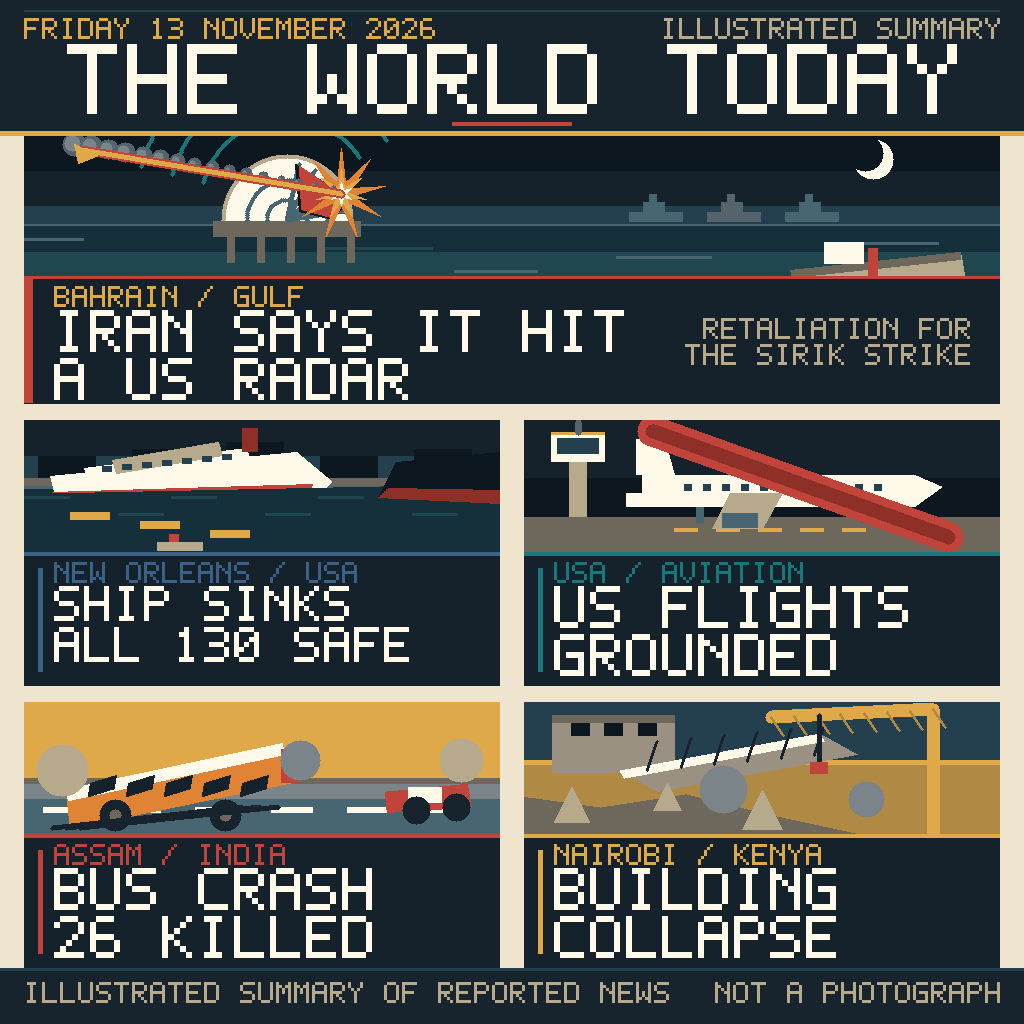
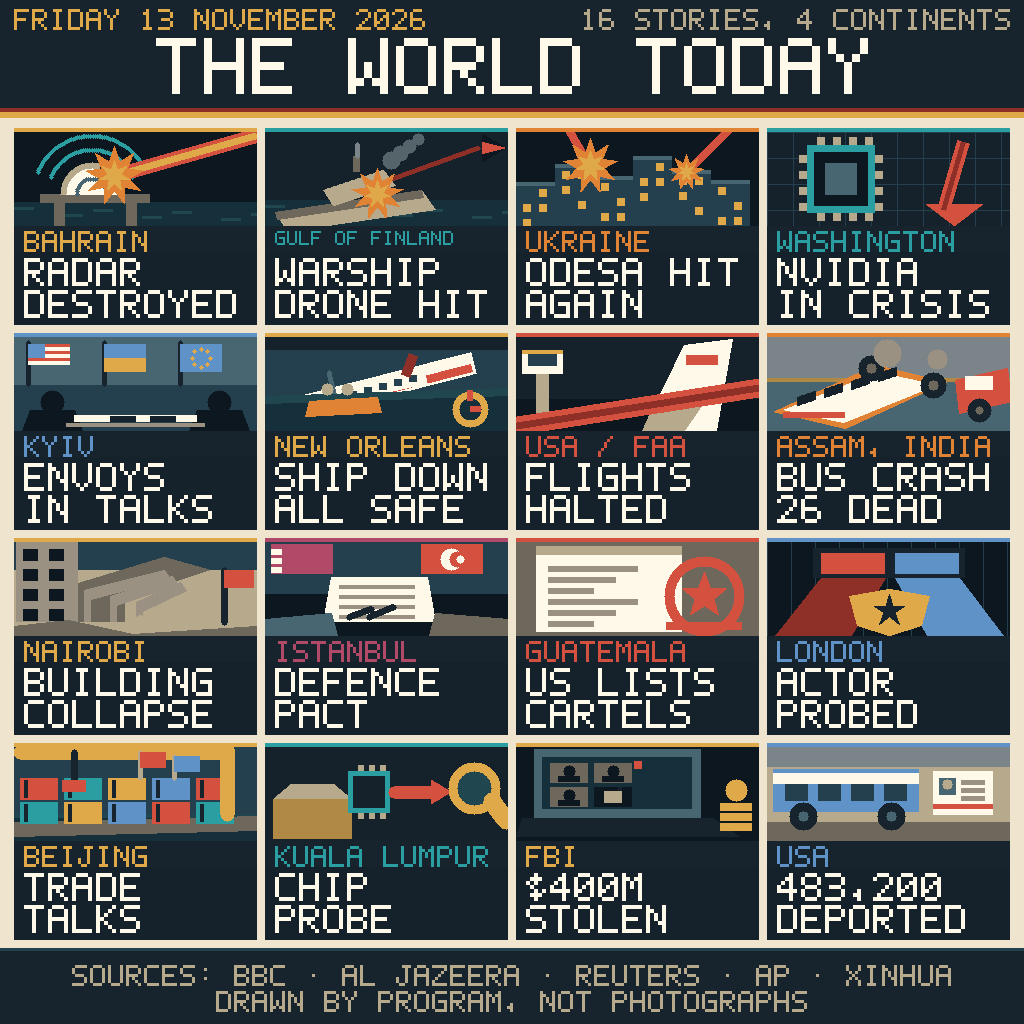
Add --check mode and document the page honestly
--check builds the page in memory and then audits it, writing nothing. It
fails if any drawn string is wider than the box it was fitted to, starts left
of that box, leaves the canvas, contains a character with no glyph, or lands
in the art box instead of its own caption band. It re-derives the grid and
fails if panel widths and gutters do not span exactly 1024 px, if the heights
and gutters do not reach the grid foot, if the panel strips do not add up to
the panel height, if the art / kicker / headline bands overlap, if any two
panels overlap, or if the PNG exceeds the 1 MiB cap. It also re-checks that
every headline line fits the shared typographic style.

Verified by breaking it on purpose: widening the gutters to 9 is caught, and
shrinking HEAD_H to 30 is caught with a per-panel message for all 16 panels.

README now says what the image actually shows - a table mapping all 16 panels
to the day's reports, with the fact behind each one - how to run it, how the
measuring engine works, the determinism guarantee with the matching sha256 of
two runs, and that it is an illustration drawn by code from reports, not a
photograph.

Verified on this build: exactly 1024x1024, one IHDR/IDAT/IEND set with correct
CRCs, 27928 bytes, byte-identical across runs, 0.3 s per run.

diff --git a/main.py b/main.py
@@ -6,6 +6,7 @@ clock: two runs write byte-identical files.  Writes one 1024x1024 PNG to
 $MAKEFUN_OUTPUT_DIR/entry.png (default /output/entry.png).
 
     python3 main.py            write the PNG
+    python3 main.py --check    measure every string and the grid, write nothing
 """
 import math
 import os
@@ -744,8 +745,86 @@ def encode():
             + chunk(b'IEND', b''))
 
 
+def check():
+    """Assert no drawn string overflows its box and the grid geometry adds up."""
+    errs = []
+    if len(STORIES) != 16:
+        errs.append('expected 16 stories, have %d' % len(STORIES))
+    if 2 * MARGIN + 4 * PANEL_W + 3 * GUTTER != W:
+        errs.append('panel widths and gutters do not span %d px' % W)
+    if GRID_TOP + 4 * PANEL_H + 3 * GUTTER != GRID_BOT:
+        errs.append('panel heights and gutters do not reach the grid foot')
+    if GRID_BOT + 6 > H - FOOT_H:
+        errs.append('grid does not stop above the footer')
+    for t in HEAD_LINES:
+        if tw(t, HEAD_K, HEAD_TRACK) > PANEL_W - 2 * PAD:
+            errs.append('headline %r does not fit at the shared style' % t)
+    if ART_H < 80:
+        errs.append('art box is only %d px tall' % ART_H)
+    if RULE_H + ART_H + GAP1 + KICK_H + GAP2 + HEAD_H + GAP3 != PANEL_H:
+        errs.append('panel strips do not add up to PANEL_H')
+    if KICK_Y < ART_Y + ART_H or HEAD_Y < KICK_Y + KICK_H:
+        errs.append('caption strips overlap the art box')
+    for s, k, w, x, y, bx, bw in TEXT_BOXES:
+        if w > bw:
+            errs.append('%r drawn %d px wide in a %d px box' % (s, w, bw))
+        if x < bx or x + w > bx + bw:
+            errs.append('%r spans %d..%d, box is %d..%d'
+                        % (s, x, x + w, bx, bx + bw))
+        if x < 0 or y < 0 or x + w > W or y + 7 * k > H:
+            errs.append('%r falls outside the canvas' % s)
+        if not s.strip():
+            errs.append('empty string drawn')
+        missing = [c for c in s.upper() if c not in GLYPHS]
+        if missing:
+            errs.append('%r has no glyph for %r' % (s, missing))
+
+    # every caption's ink must sit inside its own band, clear of the art
+    for i in range(16):
+        sx, sy = panel_xy(i)
+        art_b, kick_t = sy + ART_Y + ART_H, sy + KICK_Y
+        kick_b, head_t = kick_t + KICK_H, sy + HEAD_Y - GAP2
+        head_b = sy + HEAD_Y + HEAD_H
+        if not (art_b <= kick_t and kick_b <= head_t):
+            errs.append('panel %d: art, kicker and headline bands overlap' % i)
+        if head_b > sy + PANEL_H:
+            errs.append('panel %d: headline band runs off the panel' % i)
+        for s, k, w, x, y, bx, bw in TEXT_BOXES:
+            if not (sx <= x < sx + PANEL_W and sy <= y < sy + PANEL_H):
+                continue
+            bottom = y + 7 * k
+            if y < kick_t:
+                errs.append('panel %d: %r starts in the art box' % (i, s))
+            if bottom > head_b:
+                errs.append('panel %d: %r runs past the headline band' % (i, s))
+    # panel boxes must not touch each other
+    for i in range(16):
+        ax, ay = panel_xy(i)
+        for j in range(i + 1, 16):
+            bx2, by2 = panel_xy(j)
+            if (ax < bx2 + PANEL_W and bx2 < ax + PANEL_W
+                    and ay < by2 + PANEL_H and by2 < ay + PANEL_H):
+                errs.append('panels %d and %d overlap' % (i, j))
+    png = encode()
+    if len(png) > 1048576:
+        errs.append('png is %d bytes, cap is 1048576' % len(png))
+    print('strings drawn and measured: %d' % len(TEXT_BOXES))
+    print('panel %dx%d, art %dx%d, grid %d,%d..%d,%d'
+          % (PANEL_W, PANEL_H, PANEL_W, ART_H, MARGIN, GRID_TOP,
+             MARGIN + 4 * PANEL_W + 3 * GUTTER, GRID_BOT))
+    print('png %d bytes' % len(png))
+    if errs:
+        for e in errs:
+            print('FAIL:', e)
+        raise AssertionError('%d layout problems' % len(errs))
+    print('OK: no string overflows its box, grid geometry adds up')
+
+
 def main():
     build()
+    if '--check' in sys.argv:
+        check()
+        return
     png = encode()
     assert len(png) <= 1048576, len(png)
     out = Path(os.environ.get('MAKEFUN_OUTPUT_DIR', '/output'))

diff --git a/README.md b/README.md
@@ -3,55 +3,139 @@
 One 1024 x 1024 editorial front page, drawn from primitives, for make.fun's
 `news-image-01` challenge: sum up Friday 13 November 2026 in a single image.
 
-The program is Python 3, standard library only. No network, no external
-assets, no clock, no randomness: two runs write byte-identical files.
+Sixteen stories, sixteen equal panels, four continents. The program is Python
+3, standard library only. No network, no external assets, no fonts, no clock,
+no randomness: two runs write byte-identical files.
+
+This is an illustration drawn by code from written reports. It is not a
+photograph, and the footer of the page says so.
 
 ## Run
 
 ```sh
-MAKEFUN_OUTPUT_DIR=out python3 main.py
+MAKEFUN_OUTPUT_DIR=out python3 main.py     # writes out/entry.png
+python3 main.py --check                    # measures the page, writes nothing
 ```
 
 With `MAKEFUN_OUTPUT_DIR` unset it writes `/output/entry.png`. Output is a
-1024 x 1024 PNG, well under the 1 MiB cap, and the run takes about a second.
+single 1024 x 1024 PNG, about 28 KiB, well under the 1 MiB cap, and a run takes
+about 0.3 s on one CPU.
 
 ## What the picture shows
 
-A masthead, one lead scene, and four panels. Every story is one that was
-reported on 13 November 2026, and each was checked against that day's current-
-events record (which cites the outlets below) before it went in:
+A masthead - "THE WORLD TODAY", "FRIDAY 13 NOVEMBER 2026", "16 STORIES, 4
+CONTINENTS" - and then a 4 x 4 grid of equal panels. Each panel is, top to
+bottom: an accent rule, a flat vignette, a place kicker, and a two-line
+headline in white caps on a solid dark band. A thin footer carries the source
+list and the line "DRAWN BY PROGRAM, NOT PHOTOGRAPHS".
 
-1. **Lead, Bahrain / Gulf.** Iran says it destroyed a US early-warning radar in
-   Bahrain as retaliation for a US strike on telecom infrastructure at Sirik
-   (Türkiye Today). Drawn as a radar dome on a platform with a damaged wedge,
-   an impact burst, and an incoming missile trail over water.
-2. **New Orleans / USA.** A tanker and the cruise ship American Heritage
-   collided in the Mississippi; the cruise ship, with 130 aboard, sank and
-   everyone aboard survived (BBC, CNN). Drawn as the heeled ship with the
-   tanker's bow alongside.
-3. **USA / aviation.** The FAA issued a nationwide ground stop over a
-   communications failure, later lifted (Bloomberg, Reuters). Drawn as a
-   grounded airliner under a stop bar, with the tower behind.
-4. **Assam / India.** A bus and a truck collided at Golaghat: 26 killed, 11
-   injured (Al Jazeera, Xinhua). Drawn as the two vehicles on the road.
-5. **Nairobi / Kenya.** An under-construction building partially collapsed:
-   six killed, five injured (Xinhua). Drawn as a slab on props with rubble.
+Equal panels are deliberate. Breadth is the point: a reader who missed the day
+should see at a glance that it was not one story in one country.
 
-Nothing is invented: no invented numbers, no speculation shown as fact, and no
-story from another day. The footer says what the page is, an illustrated
-summary of reported news and not a photograph.
+### The 16 panels, in order
+
+Every story below was reported on 13 November 2026 and was checked against that
+day's current-events record and the outlets named in the footer before it went
+in. No detail, number or attribution is invented.
+
+| # | Place | Headline | What the panel draws |
+|---|-------|----------|----------------------|
+| 1 | Bahrain | RADAR DESTROYED | A radar dome on a platform, hit, with a missile trail in |
+| 2 | Gulf of Finland | WARSHIP / DRONE HIT | A heeling warship with a hit flash and a drone overhead |
+| 3 | Odesa, Ukraine | ODESA HIT / AGAIN | A dark skyline lit by windows, under two drone trails |
+| 4 | Washington | NVIDIA / IN CRISIS | A cracked microchip and a falling red arrow |
+| 5 | Kyiv | ENVOYS / IN TALKS | Three flags (US, Ukraine, EU) over two delegations at a table |
+| 6 | New Orleans | SHIP DOWN / ALL SAFE | A listed cruise hull cut by the waterline, a life ring |
+| 7 | USA / FAA | FLIGHTS / HALTED | An airliner fin beside a control tower, crossed by a stop bar |
+| 8 | Golaghat, Assam | BUS CRASH / 26 DEAD | A bus on its side and a truck's nose, in dust |
+| 9 | Nairobi | BUILDING / COLLAPSE | A standing wall of floor slabs beside a sheared, fallen half |
+| 10 | Istanbul | DEFENCE / PACT | The Qatari and Turkish flags over a signed sheet and a clasp |
+| 11 | Guatemala | US LISTS / CARTELS | A listed document with a red stamp over it |
+| 12 | London | ACTOR / PROBED | A police light bar, its beams, and a badge |
+| 13 | Beijing | TRADE / TALKS | A loaded container ship under a gantry, US and Chinese flags |
+| 14 | Kuala Lumpur | CHIP / PROBE | An open crate, a chip on a red arrow, a magnifier |
+| 15 | FBI | $400M / STOLEN | A laptop on a call, its speaker's face blanked out, coins |
+| 16 | USA | 483,200 / DEPORTED | A coach, an ID card, and a rising bar |
+
+The facts each panel stands for, in one line each:
+
+1. Iran said it destroyed a US early-warning radar in Bahrain, retaliation for a
+   US strike on telecoms infrastructure at Sirik.
+2. A Ukrainian drone struck a Russian warship in the Gulf of Finland.
+3. Russian drone strikes hit Odesa and Sumy.
+4. Nvidia's Jensen Huang stepped down amid a spy scandal; the Senate Banking
+   Committee summoned him and Commerce Secretary Lutnick to testify.
+5. President Zelensky met the US envoys Witkoff and Kushner, with Europe brought
+   into the talks.
+6. A tanker collided with the cruise ship American Heritage on the Mississippi;
+   she sank with 130 aboard, and all aboard survived.
+7. The FAA ordered a nationwide ground stop over a communications failure; it
+   was later lifted.
+8. A bus and a truck collided at Golaghat, Assam: 26 killed, 11 injured.
+9. An under-construction building partially collapsed in Nairobi: 6 killed,
+   5 injured.
+10. Qatar and Turkiye signed a mutual defence pact in Istanbul.
+11. The US State Department designated three Guatemalan criminal groups as
+    foreign terrorist organisations.
+12. The Metropolitan Police opened a criminal investigation into the actor
+    David Walliams over alleged serious sexual offences.
+13. China and the US held the first meeting of their trade council, discussing
+    tariff cuts and agricultural trade.
+14. Malaysia and Singapore are investigating whether the firm Megaspeed diverted
+    US chips to China.
+15. North Korean hackers used faked video calls to steal about USD 400m in
+    cryptocurrency.
+16. The US reported a record 483,200 deportations in 2026.
+
+Two headlines are shorter than the underlying report on purpose, because the
+panel is 243 px wide and the reader sees it at about 70 px. "SHIP DOWN / ALL
+SAFE" is the collision, the sinking and the survival; "FLIGHTS / HALTED" is the
+ground stop, later lifted. Nothing is added that the reports did not say.
 
 ## Layout rules
 
-Every string is measured before it is drawn. `fit()` returns the largest
-glyph scale whose rendering fits the box it is given, `txt_fit()` draws at that
-scale and records the measured width, and `build()` asserts that no recorded
-string is wider than its box. Captions are three separate strips (art, kicker,
-headline) so artwork and text never overlap, and nothing is drawn in light ink
-on the light paper background.
+Every string is measured before it is drawn.
+
+- `tw()` returns the exact pixel width of a string at a glyph scale.
+- `fit()` returns the largest scale in a given range whose rendering fits a box.
+- `label()` fits a string to a box, draws it, and records the exact box it
+  occupies in `TEXT_BOXES`.
+- `--check` walks every recorded string and fails if any is wider than its box,
+  starts left of it, leaves the canvas, contains a character with no glyph, or
+  lands in the art box rather than its own caption band.
+
+The page grids are derived, not typed in: panel width comes from the canvas
+width and the gutters, panel height from the grid height, and the art box from
+what the caption strips leave. `--check` re-derives them and asserts that the
+widths and gutters span exactly 1024 px, that the heights and gutters reach the
+grid foot, that the panel strips add up to the panel height, that the art,
+kicker and headline bands do not overlap, that no two panels overlap, and that
+the PNG is within the size cap.
+
+Caption scales are fixed for the page as a whole rather than chosen per panel:
+all 16 kickers set at one scale and tracking, all 32 headline lines at one
+scale and tracking (`_choose_head_style` picks the largest pair at which every
+line fits). A grid set in a dozen different sizes looks like a ransom note; one
+size looks like a newspaper.
+
+## Determinism
+
+No randomness, no clock, no environment-dependent input except
+`MAKEFUN_OUTPUT_DIR`, and no iteration over unordered containers. Two runs
+produce byte-identical files:
+
+```
+$ MAKEFUN_OUTPUT_DIR=/tmp/a python3 main.py && MAKEFUN_OUTPUT_DIR=/tmp/b python3 main.py
+$ sha256sum /tmp/a/entry.png /tmp/b/entry.png
+3a1934717a0a7e7872db2475c4a1561e7ebf817e64447d226890bb45b7615290  /tmp/a/entry.png
+3a1934717a0a7e7872db2475c4a1561e7ebf817e64447d226890bb45b7615290  /tmp/b/entry.png
+```
+
+The PNG is written in one pass: a single `IDAT` chunk of filter-0 scanlines,
+with correct CRCs on every chunk, and no ancillary chunks.
 
 ## Files
 
 - `main.py` - the program.
-- `entry.png` - the rendered image at the submitted commit.
+- `entry.png` - the rendered image at the last commit that updated it.
 - `LICENSE` - MIT.
